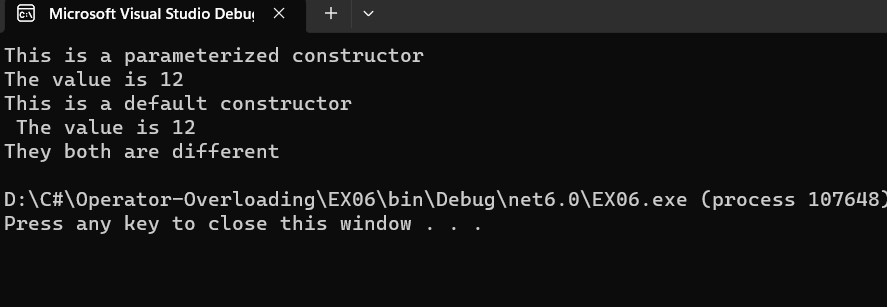
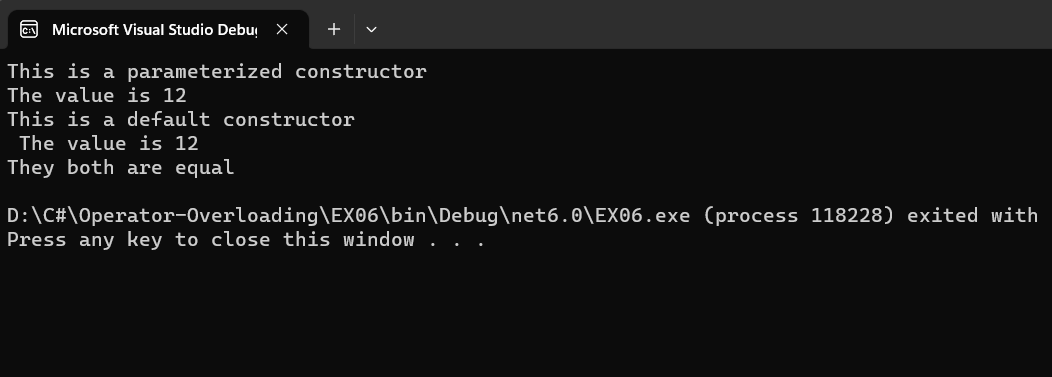
EX06

Changed region(s): [[0.0, 0.0, 1.0, 0.6743], [0.0, 0.7036, 0.487, 0.7622]]

diff --git a/EX06/Program.cs b/EX06/Program.cs
@@ -1,5 +1,5 @@
 using System;
-namespace EX06
+namespace OperOverload
 {
     class Program
     {
@@ -27,7 +27,8 @@ namespace EX06
         {
             Program p1 = new Program(12);
             Program p4 = new Program();
-            if (p4 == p1)
+            Program p2 = p4;
+            if (p2 == p4)
             {
                 Console.WriteLine("They both are equal");
             }

diff --git a/README.md b/README.md
@@ -18,7 +18,7 @@ print the program.
 ## Program:
 ```
 using System;
-namespace EX06
+namespace OperOverload
 {
     class Program
     {
@@ -46,7 +46,8 @@ namespace EX06
         {
             Program p1 = new Program(12);
             Program p4 = new Program();
-            if (p4 == p1)
+            Program p2 = p4;
+            if (p2 == p4)
             {
                 Console.WriteLine("They both are equal");
             }
@@ -57,6 +58,11 @@ namespace EX06
         }
     }
 }
+
+
+
+
+
 ```
 ## Output:
 ![](1.png)
